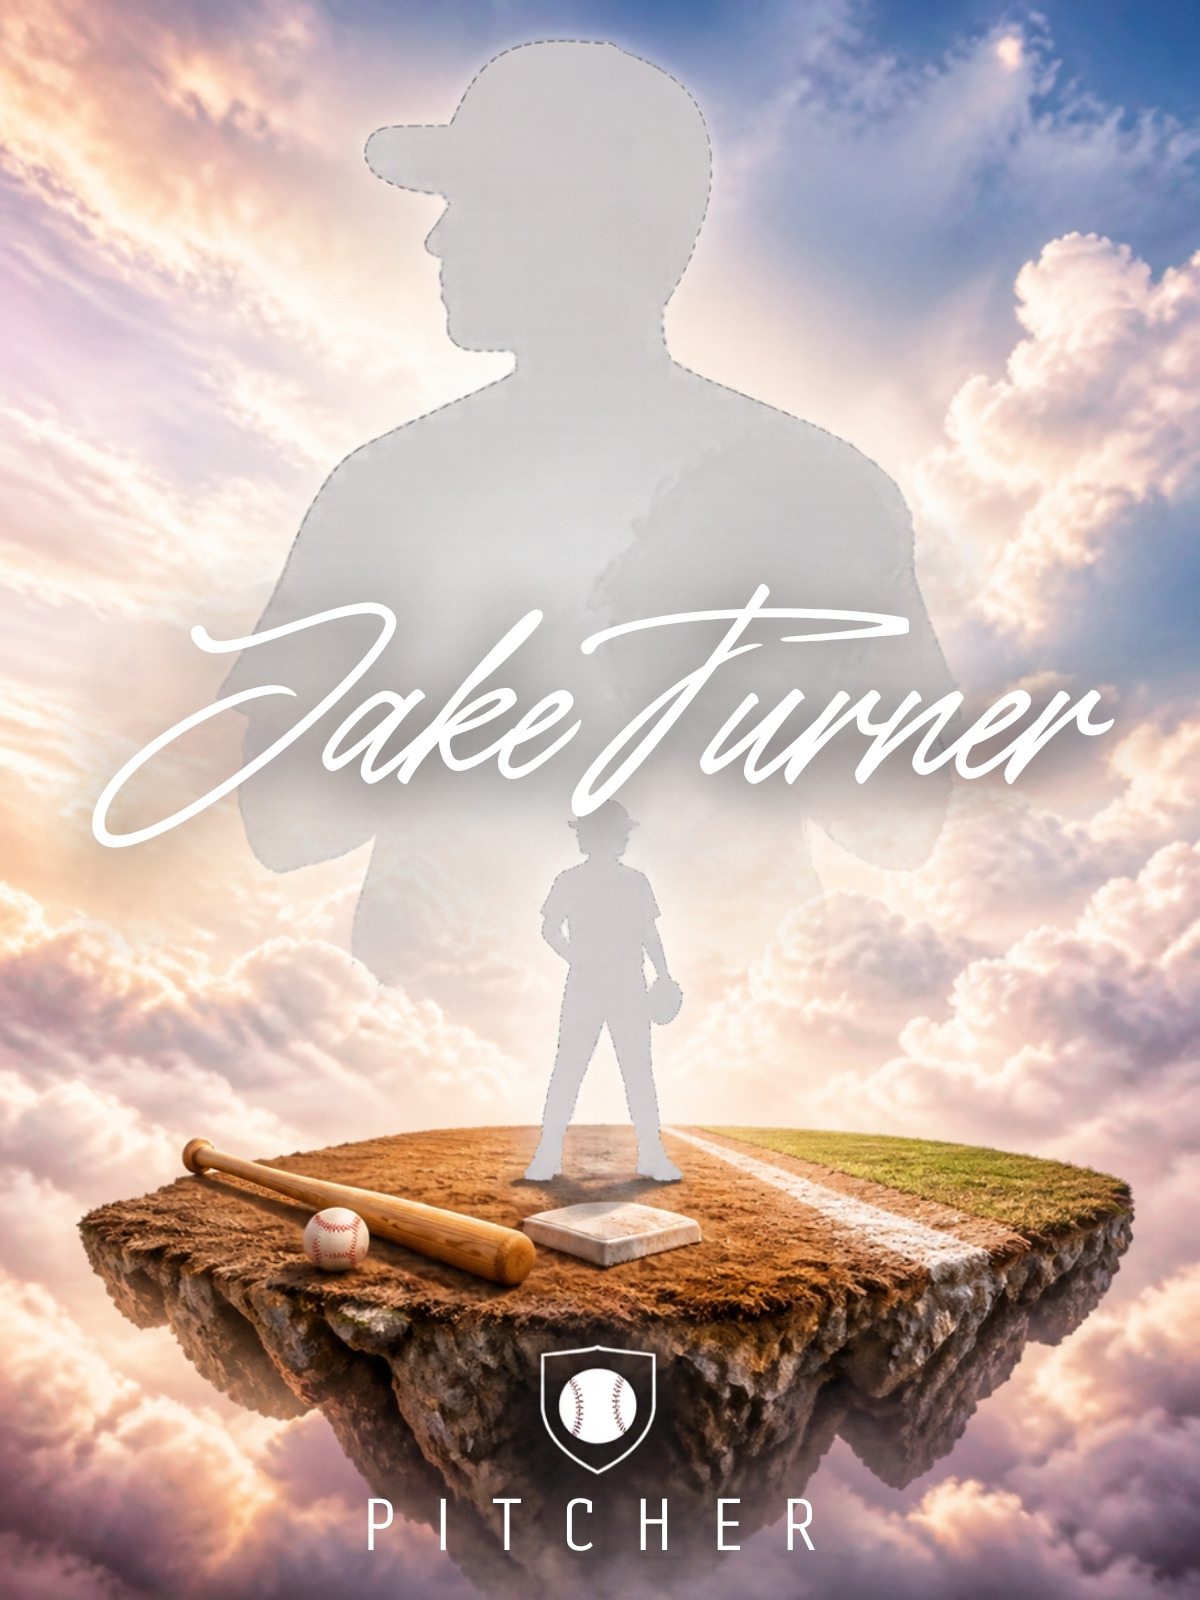
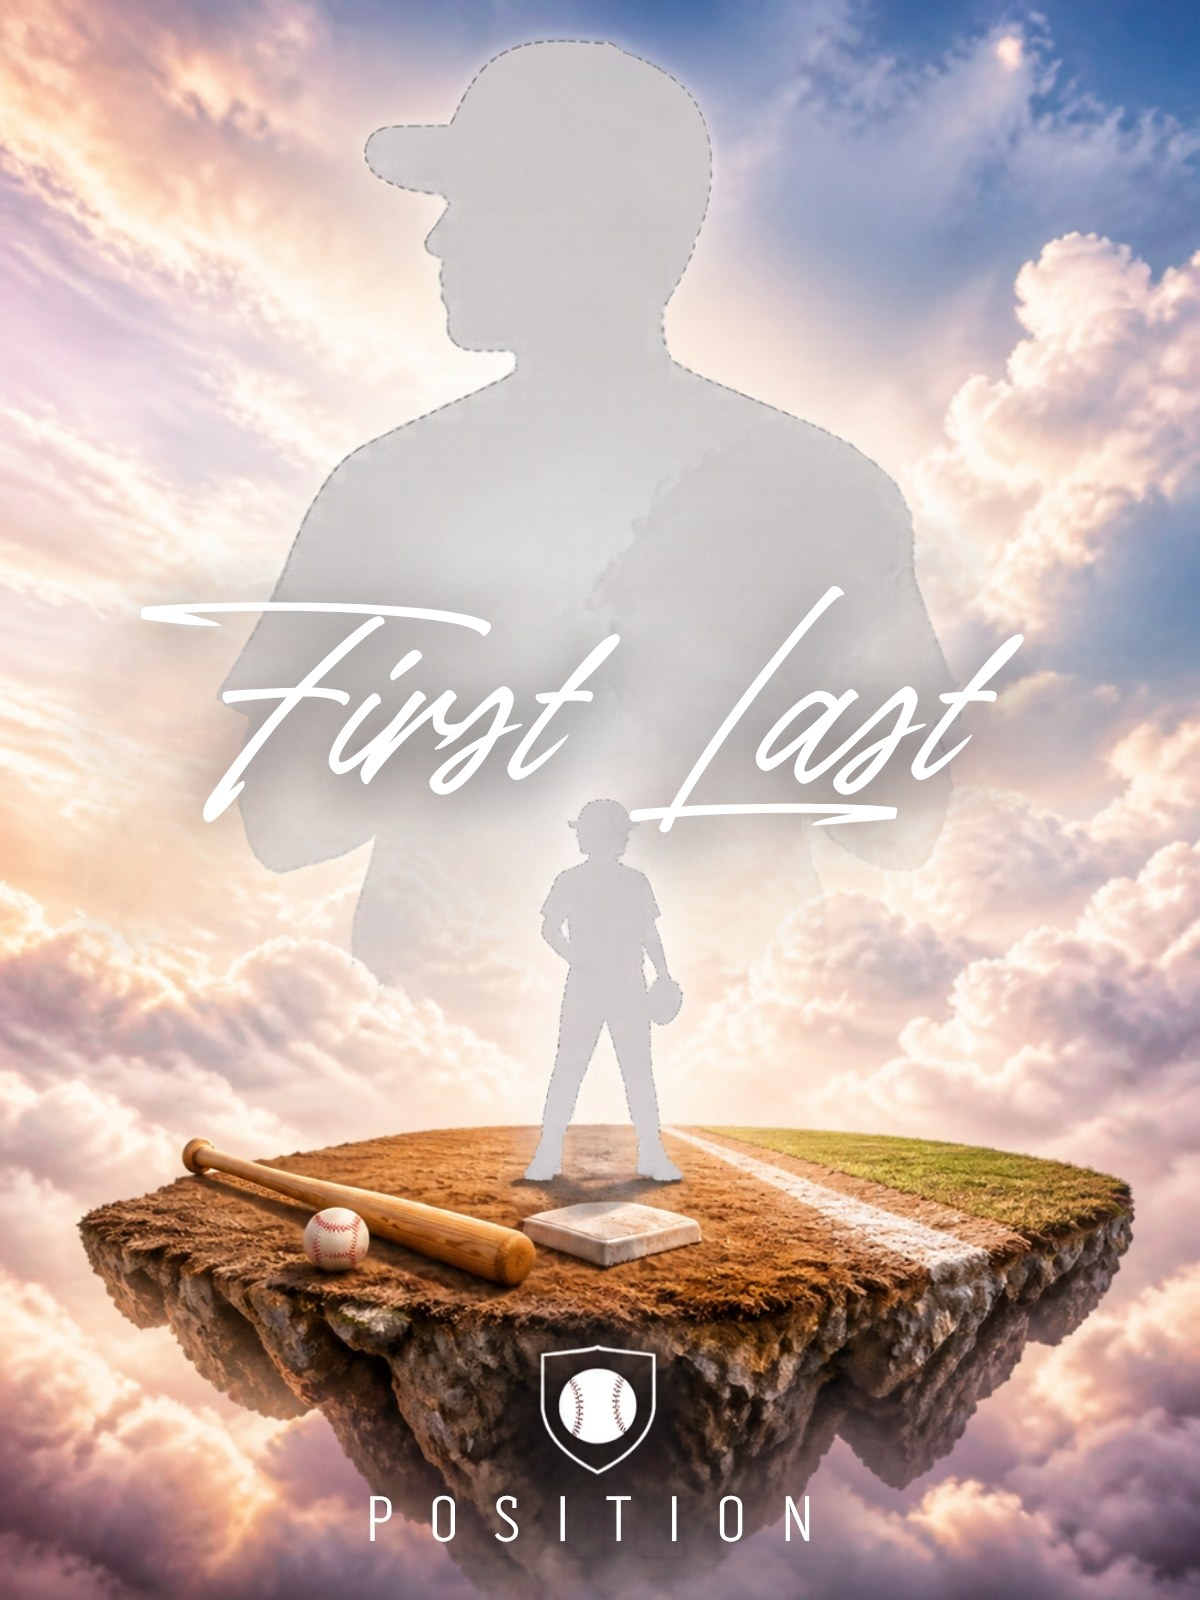
Fold posters into each sport's lineup; placeholder names on all poster images
- Posters now appear after the cards in one list per sport (#38-42 soccer, #13-17 baseball/football) with a gold Poster tag
- Cards/Posters toggle replaced by Cards and Posters filter chips
- Re-exported all 15 poster images with FIRST LAST / POSITION placeholders (no sample name)
- Photo instructions in the form follow the picked design type

Claude-Session: https://claude.ai/code/session_01HXmChJBK92rBPeddW31ADs

diff --git a/index.html b/index.html
@@ -114,6 +114,9 @@
   .card:hover .foil { opacity: 1; }
   .num { position: absolute; top: 0; left: 0; background: var(--maroon-hot); color: #fff; font-family: var(--display); font-weight: 900; font-size: 26px; line-height: 1; padding: 7px 10px 5px; }
   .tagl { position: absolute; bottom: 8px; left: 8px; font: 600 11px var(--body); letter-spacing: .08em; text-transform: uppercase; background: rgba(0,0,0,.65); color: #fff; padding: 3px 7px; }
+  .kindl { position: absolute; top: 50px; right: 8px; font: 800 11px var(--cond); letter-spacing: .14em; text-transform: uppercase; background: var(--gold); color: var(--night); padding: 4px 8px; border-radius: 3px; }
+  .chip.poster { border-color: var(--gold); color: var(--gold); }
+  .chip.poster.on { background: var(--gold); color: var(--night); }
   .fav { position: absolute; top: 8px; right: 8px; width: 34px; height: 34px; border-radius: 50%; border: 0; background: rgba(0,0,0,.55); color: #fff; font-size: 17px; cursor: pointer; display: grid; place-items: center; transition: transform .2s var(--ease), background .2s; }
   .fav:hover { transform: scale(1.12); }
   .fav.on { background: var(--maroon-hot); }
@@ -217,11 +220,11 @@
     <div>
       <p class="kicker">Bulldogs Cards · 2026 season</p>
       <h1>Pick your<br>player's<br>card</h1>
-      <p class="lede">76 designs: trading cards and full-size posters for soccer, baseball and football. Pick a design, type in your player's details, and Samson builds it and gets it back to you. Free for Bulldogs families.</p>
+      <p class="lede">76 designs for soccer, baseball and football: classic trading cards plus full-size cut-out posters, all in one lineup. Pick a design, type in your player's details, and Samson builds it and gets it back to you. Free for Bulldogs families.</p>
       <div class="sportpick" id="sportpick" role="tablist" aria-label="Sport">
-        <button role="tab" data-s="soccer" class="on"><span class="ico">⚽</span><span class="nm">Soccer</span><span class="ct">37 cards · 5 posters</span></button>
-        <button role="tab" data-s="baseball"><span class="ico">⚾</span><span class="nm">Baseball</span><span class="ct">12 cards · 5 posters</span></button>
-        <button role="tab" data-s="football"><span class="ico">🏈</span><span class="nm">Football</span><span class="ct">12 cards · 5 posters</span></button>
+        <button role="tab" data-s="soccer" class="on"><span class="ico">⚽</span><span class="nm">Soccer</span><span class="ct">42 designs</span></button>
+        <button role="tab" data-s="baseball"><span class="ico">⚾</span><span class="nm">Baseball</span><span class="ct">17 designs</span></button>
+        <button role="tab" data-s="football"><span class="ico">🏈</span><span class="nm">Football</span><span class="ct">17 designs</span></button>
       </div>
     </div>
     <div class="stage" id="stage">
@@ -234,7 +237,7 @@
 </header>
 
 <section class="wrap steps" id="steps">
-  <div class="step" id="s1"><b>1</b><div><strong>Pick a design</strong><span>Choose your sport and card or poster. Tap any one to see it big, then hit Pick this one.</span></div></div>
+  <div class="step" id="s1"><b>1</b><div><strong>Pick a design</strong><span>Choose your sport, then browse cards and posters together. Tap any one to see it big, then hit Pick this one.</span></div></div>
   <div class="step" id="s2"><b>2</b><div><strong>Fill in the details</strong><span>Name, number, position, and whether you want the NBT logo. Watch the preview update.</span></div></div>
   <div class="step" id="s3"><b>3</b><div><strong>Send it</strong><span>Hit Send. Then text or email Samson 1 or 2 action photos of your player.</span></div></div>
 </section>
@@ -245,10 +248,6 @@
       <button data-s="soccer" class="on">⚽ Soccer</button>
       <button data-s="baseball">⚾ Baseball</button>
       <button data-s="football">🏈 Football</button>
-    </div>
-    <div class="seg" id="segKind">
-      <button data-k="cards" class="on">Cards</button>
-      <button data-k="posters">Posters</button>
     </div>
     <div class="chips" id="chips"></div>
     <div class="right">
@@ -273,7 +272,7 @@
     </aside>
     <div class="panel">
       <h2>Player details</h2>
-      <p>Chosen design: <span class="chosen" id="chosen">none yet, pick one above</span></p>
+      <p>Chosen design: <span class="chosen" id="chosen">none yet, pick one above</span> <span class="note" id="photoNote"></span></p>
       <form id="req">
         <div class="fields">
           <label>First name <input id="first" required autocomplete="off"></label>
@@ -425,24 +424,28 @@
       ]
     }
   };
-  var INTRO = {
-    cards: "Classic trading cards. Two photo frames, big name down the side, number and position.",
-    posters: "Full-size posters. Your player is cut out of the photo and dropped into the scene, like a pro's wall poster. Needs one clear head-and-shoulders photo and one action shot."
-  };
+  // One lineup per sport: cards first, then posters numbered on from the last card.
+  Object.keys(SPORTS).forEach(function (s) {
+    var SS = SPORTS[s];
+    SS.cards.forEach(function (t) { t.k = "cards"; t.img = SS.p + t.n; });
+    SS.posters.forEach(function (t, i) { t.k = "posters"; t.img = SS.pp + t.n; t.n = SS.cards.length + i + 1; });
+    SS.all = SS.cards.concat(SS.posters);
+  });
+  var INTRO = "Trading cards and full-size posters, side by side. Cards use 1 or 2 action photos. Posters (gold tag) cut your player out of the photo and drop them into the scene, like a pro's wall poster.";
   var reduce = window.matchMedia("(prefers-reduced-motion: reduce)").matches;
   var $ = function (id) { return document.getElementById(id); };
 
   // ---------- state ----------
-  var sport = "soccer", kind = "cards", filter = "all", query = "";
+  var sport = "soccer", filter = "all", query = "";
   var picked = null, cur = 0, LIST = [];
   var favs = [];
   try { favs = JSON.parse(localStorage.getItem("bulldogs-favs") || "[]"); } catch (e) { favs = []; }
 
   function S() { return SPORTS[sport]; }
-  function prefix(k, s) { return (k || kind) === "posters" ? SPORTS[s || sport].pp : SPORTS[s || sport].p; }
-  function imgSrc(t, thumb, k, s) { return "img/" + (thumb ? "thumb/" : "") + prefix(k, s) + t.n + ".jpg"; }
-  function title(t, k, s) { var SS = SPORTS[s || sport]; return SS.label + " " + ((k || kind) === "posters" ? "poster" : "card") + " #" + t.n + " " + t.name; }
-  function key(t, k, s) { return (s || sport) + "/" + (k || kind) + "/" + t.n; }
+  function imgSrc(t, thumb) { return "img/" + (thumb ? "thumb/" : "") + t.img + ".jpg"; }
+  function kindWord(t) { return t.k === "posters" ? "poster" : "card"; }
+  function title(t, s) { return SPORTS[s || sport].label + " " + kindWord(t) + " #" + t.n + " " + t.name; }
+  function key(t, s) { return (s || sport) + "/" + t.img; }
 
   // ---------- hero sky ----------
   (function sky() {
@@ -469,12 +472,12 @@
   function buildHolo() {
     holoList = [];
     ["soccer", "baseball", "football"].forEach(function (s) {
-      SPORTS[s].cards.slice(-4).forEach(function (t) { holoList.push({ s: s, k: "cards", t: t }); });
-      SPORTS[s].posters.slice(0, 2).forEach(function (t) { holoList.push({ s: s, k: "posters", t: t }); });
+      SPORTS[s].cards.slice(-4).forEach(function (t) { holoList.push({ s: s, t: t }); });
+      SPORTS[s].posters.slice(0, 2).forEach(function (t) { holoList.push({ s: s, t: t }); });
     });
     holoList.sort(function () { return Math.random() - .5; });
     holo.querySelectorAll("img").forEach(function (i) { i.remove(); });
-    holoList.forEach(function (h) { var im = new Image(); im.src = imgSrc(h.t, true, h.k, h.s); im.alt = ""; holo.insertBefore(im, holo.firstChild); });
+    holoList.forEach(function (h) { var im = new Image(); im.src = imgSrc(h.t, true); im.alt = ""; holo.insertBefore(im, holo.firstChild); });
     showHolo(0);
     clearInterval(holoTimer);
     if (!reduce) holoTimer = setInterval(function () { showHolo(holoI + 1); }, 2800);
@@ -484,7 +487,7 @@
     var imgs = holo.querySelectorAll("img");
     imgs.forEach(function (im, j) { im.classList.toggle("on", j === holoList.length - 1 - holoI); });
     var h = holoList[holoI];
-    $("holotag").innerHTML = SPORTS[h.s].ball + " <b>" + h.t.name + "</b> · " + SPORTS[h.s].label + " " + (h.k === "posters" ? "poster" : "card");
+    $("holotag").innerHTML = SPORTS[h.s].ball + " <b>" + h.t.name + "</b> · " + SPORTS[h.s].label + " " + kindWord(h.t);
   }
   function tilt(el, e, max) {
     var r = el.getBoundingClientRect();
@@ -500,25 +503,24 @@
     stage.addEventListener("pointerleave", function () { untilt(holo); });
   }
   holo.addEventListener("click", function () {
-    var h = holoList[holoI]; sport = h.s; kind = h.k; render();
-    var t = h.t; var i = LIST.indexOf(t); if (i >= 0) open(i);
+    var h = holoList[holoI]; sport = h.s; render();
+    var i = LIST.indexOf(h.t); if (i >= 0) open(i);
   });
   buildHolo();
 
   // ---------- render grid ----------
   function render() {
-    var SS = S(); LIST = SS[kind]; filter = "all";
+    var SS = S(); LIST = SS.all; filter = "all";
     document.querySelectorAll("#sportpick button, #segSport button").forEach(function (b) { b.classList.toggle("on", b.dataset.s === sport); });
-    document.querySelectorAll("#segKind button").forEach(function (b) { b.classList.toggle("on", b.dataset.k === kind); });
-    $("introH").textContent = SS.label + " " + kind;
-    $("introP").textContent = INTRO[kind];
+    $("introH").textContent = SS.label + " designs";
+    $("introP").textContent = INTRO;
     var grid = $("grid"); grid.innerHTML = "";
     LIST.forEach(function (t, i) {
       var c = document.createElement("article");
-      c.className = "card"; c.id = "c-" + prefix() + t.n; c.dataset.f = t.f; c.dataset.q = (t.name + " " + t.vibe + " " + LABEL[t.f]).toLowerCase();
+      c.className = "card"; c.id = "c-" + t.img; c.dataset.f = t.f; c.dataset.k = t.k; c.dataset.q = (t.name + " " + t.vibe + " " + LABEL[t.f] + " " + kindWord(t)).toLowerCase();
       var isFav = favs.indexOf(key(t)) >= 0;
       c.innerHTML =
-        '<button class="thumb" type="button" aria-label="Enlarge ' + t.name + '"><span class="num">' + t.n + '</span><img src="' + imgSrc(t, true) + '" alt="' + title(t) + '" loading="lazy"><span class="foil"></span><span class="tagl">' + LABEL[t.f] + '</span></button>' +
+        '<button class="thumb" type="button" aria-label="Enlarge ' + t.name + '"><span class="num">' + t.n + '</span><img src="' + imgSrc(t, true) + '" alt="' + title(t) + '" loading="lazy"><span class="foil"></span><span class="tagl">' + LABEL[t.f] + '</span>' + (t.k === "posters" ? '<span class="kindl">Poster</span>' : '') + '</button>' +
         '<button class="fav' + (isFav ? " on" : "") + '" type="button" aria-label="Shortlist ' + t.name + '" aria-pressed="' + isFav + '">' + (isFav ? "♥" : "♡") + '</button>' +
         '<div class="meta"><div class="name">' + t.name + '</div><p class="vibe">' + t.vibe + '</p><button class="pick" type="button">Pick this one</button></div>';
       c.querySelector(".thumb").addEventListener("click", function () { open(i); });
@@ -531,7 +533,7 @@
       grid.appendChild(c);
     });
     var have = {}; LIST.forEach(function (t) { have[t.f] = 1; });
-    var chips = '<button class="chip on" data-f="all">All</button>';
+    var chips = '<button class="chip on" data-f="all">All</button><button class="chip" data-f="cards">Cards</button><button class="chip poster" data-f="posters">Posters</button>';
     ORDER.forEach(function (k) { if (have[k]) chips += '<button class="chip" data-f="' + k + '">' + LABEL[k] + '</button>'; });
     $("chips").innerHTML = chips;
     document.querySelectorAll(".chip").forEach(function (b) {
@@ -543,7 +545,6 @@
     var pos = $("pos"); pos.innerHTML = "";
     SS.positions.forEach(function (p) { var o = document.createElement("option"); o.textContent = p; pos.appendChild(o); });
     if (!teamTouched) $("team").value = SS.team;
-    if (picked && (picked.s !== sport || picked.k !== kind)) { /* keep pick across tabs */ }
     markPicked();
     applyFilter();
     renderTray();
@@ -552,14 +553,14 @@
   function applyFilter() {
     var n = 0, q = query.trim().toLowerCase();
     document.querySelectorAll(".card").forEach(function (c) {
-      var show = (filter === "all" || c.dataset.f === filter) && (!q || c.dataset.q.indexOf(q) >= 0);
+      var show = (filter === "all" || c.dataset.f === filter || c.dataset.k === filter) && (!q || c.dataset.q.indexOf(q) >= 0);
       c.hidden = !show; if (show) n++;
     });
     $("count").textContent = n + " of " + LIST.length;
     $("empty").hidden = n > 0;
   }
   function markPicked() {
-    document.querySelectorAll(".card").forEach(function (c) { c.classList.toggle("picked", !!picked && picked.s === sport && picked.k === kind && c.id === "c-" + prefix() + picked.t.n); });
+    document.querySelectorAll(".card").forEach(function (c) { c.classList.toggle("picked", !!picked && picked.s === sport && c.id === "c-" + picked.t.img); });
   }
   $("q").addEventListener("input", function () { query = this.value; applyFilter(); });
   $("shuffle").addEventListener("click", function () {
@@ -572,20 +573,15 @@
   document.querySelectorAll("#sportpick button, #segSport button").forEach(function (b) {
     b.addEventListener("click", function () {
       sport = b.dataset.s; render();
-      if (history.replaceState) history.replaceState(null, "", "#" + sport + (kind === "posters" ? "-posters" : ""));
+      if (history.replaceState) history.replaceState(null, "", "#" + sport);
       $("designs").scrollIntoView({ behavior: reduce ? "auto" : "smooth", block: "start" });
     });
   });
-  document.querySelectorAll("#segKind button").forEach(function (b) {
-    b.addEventListener("click", function () {
-      kind = b.dataset.k; render();
-      if (history.replaceState) history.replaceState(null, "", "#" + sport + (kind === "posters" ? "-posters" : ""));
-    });
-  });
+  var startFilter = "all";
   (function fromHash() {
     var h = location.hash.slice(1).split("-");
     if (SPORTS[h[0]]) sport = h[0];
-    if (h[1] === "posters") kind = "posters";
+    if (h[1] === "posters") startFilter = "posters";
   })();
 
   // ---------- shortlist ----------
@@ -597,17 +593,17 @@
   }
   function findByKey(k) {
     var p = k.split("/"); var SS = SPORTS[p[0]]; if (!SS) return null;
-    var t = SS[p[1]].filter(function (x) { return x.n == p[2]; })[0];
-    return t ? { s: p[0], k: p[1], t: t } : null;
+    var t = SS.all.filter(function (x) { return x.img === p[1]; })[0];
+    return t ? { s: p[0], t: t } : null;
   }
   function renderTray() {
     var tray = $("tray"), items = $("trayItems"); items.innerHTML = "";
     var list = favs.map(findByKey).filter(Boolean);
     list.forEach(function (h) {
-      var b = document.createElement("button"); b.type = "button"; b.title = title(h.t, h.k, h.s);
-      b.className = picked && picked.s === h.s && picked.k === h.k && picked.t.n === h.t.n ? "picked" : "";
-      b.innerHTML = '<img src="' + imgSrc(h.t, true, h.k, h.s) + '" alt="">';
-      b.addEventListener("click", function () { sport = h.s; kind = h.k; render(); pick(h.t); });
+      var b = document.createElement("button"); b.type = "button"; b.title = title(h.t, h.s);
+      b.className = picked && picked.s === h.s && picked.t === h.t ? "picked" : "";
+      b.innerHTML = '<img src="' + imgSrc(h.t, true) + '" alt="">';
+      b.addEventListener("click", function () { sport = h.s; render(); pick(h.t); });
       items.appendChild(b);
     });
     tray.classList.toggle("show", list.length > 0);
@@ -618,9 +614,10 @@
   var teamTouched = false;
   $("team").addEventListener("input", function () { teamTouched = true; });
   function pick(t) {
-    picked = { s: sport, k: kind, t: t };
+    picked = { s: sport, t: t };
     markPicked(); renderTray();
     $("chosen").textContent = title(t);
+    $("photoNote").textContent = t.k === "posters" ? "Posters need one clear head-and-shoulders photo and one action shot." : "Cards need 1 or 2 action photos.";
     $("s1").classList.add("done");
     close(); preview();
     $("form").scrollIntoView({ behavior: reduce ? "auto" : "smooth", block: "start" });
@@ -633,7 +630,7 @@
     var first = v("first"), last = v("last"), num = v("num"), pos = $("pos").value;
     var logo = document.querySelector('input[name="logo"]:checked').value === "Yes";
     var nm = (first || last) ? (first + " " + last).trim() : "Player name";
-    pv.innerHTML = '<img src="' + imgSrc(picked.t, false, picked.k, picked.s) + '" alt="">' +
+    pv.innerHTML = '<img src="' + imgSrc(picked.t, false) + '" alt="">' +
       '<div class="plate"><span class="logo' + (logo ? "" : " off") + '">NBT</span><span class="pn">' + esc(nm) + '</span><span class="pj">' + (num ? "#" + esc(num) : "") + '</span><span class="pp">' + esc(pos) + ' · ' + esc(v("team") || SPORTS[picked.s].label) + ' ' + esc(v("year")) + '</span></div>';
     if (first || last) $("s2").classList.add("done");
   }
@@ -687,10 +684,10 @@
     e.preventDefault();
     if (!picked) { status.textContent = "Pick a design first (tap Pick this one on a card)."; status.className = "note"; $("designs").scrollIntoView({ behavior: "smooth" }); return; }
     var logo = document.querySelector('input[name="logo"]:checked').value;
-    var L = SPORTS[picked.s].label, K = picked.k === "posters" ? "poster" : "card";
+    var L = SPORTS[picked.s].label, K = kindWord(picked.t);
     var lines = [
       L + " " + K + " request",
-      "Design: " + title(picked.t, picked.k, picked.s),
+      "Design: " + title(picked.t, picked.s),
       "Player: " + v("first") + " " + v("last"),
       "Number: " + (v("num") || "none"),
       "Position: " + $("pos").value,
@@ -710,13 +707,13 @@
       headers: { "Content-Type": "application/json", "Accept": "application/json" },
       body: JSON.stringify({
         access_key: KEY,
-        subject: L + " " + K + ": " + v("first") + " " + v("last") + " (" + title(picked.t, picked.k, picked.s) + ", logo " + logo + ")",
+        subject: L + " " + K + ": " + v("first") + " " + v("last") + " (" + title(picked.t, picked.s) + ", logo " + logo + ")",
         from_name: "Bulldogs Card Picker",
         message: body
       })
     }).then(function (r) { return r.json(); }).then(function (j) {
       if (!j.success) throw new Error(j.message || "failed");
-      $("done").innerHTML = "<span class=\"ok\">Sent.</span> Samson has your request. One more thing: text or email him " + (picked.k === "posters" ? "a clear head-and-shoulders photo and an action shot" : "1 or 2 action photos") + " of your player (phone photos are fine, the bigger the better).";
+      $("done").innerHTML = "<span class=\"ok\">Sent.</span> Samson has your request. One more thing: text or email him " + (picked.t.k === "posters" ? "a clear head-and-shoulders photo and an action shot" : "1 or 2 action photos") + " of your player (phone photos are fine, the bigger the better).";
       $("out").hidden = false; $("copy").hidden = false;
       btn.textContent = "Sent"; $("s3").classList.add("done"); confetti();
     }).catch(function () {
@@ -733,6 +730,7 @@
   });
 
   render();
+  if (startFilter !== "all") { var sc = document.querySelector('.chip[data-f="' + startFilter + '"]'); if (sc) sc.click(); }
 </script>
 </body>
 </html>

diff --git a/README.md b/README.md
@@ -1,9 +1,9 @@
 # Bulldogs Card Picker
 
-Sports card and poster picker for Bulldogs families: 61 trading cards (37 soccer, 12 baseball, 12 football) and 15 cut-out composite posters (5 per sport). Pick a sport, cards or posters, pick a design, fill in the player's details, and send the request.
+Sports card and poster picker for Bulldogs families: 61 trading cards (37 soccer, 12 baseball, 12 football) and 15 cut-out composite posters (5 per sport). Each sport shows one lineup, cards first and posters after (soccer #38-42, baseball and football #13-17, gold Poster tag). Pick a sport, pick a design, fill in the player details, and send the request.
 
 Features: holographic hero card, 3D tilt on hover, style filters and search, "Surprise me", shortlist (saved in the browser), lightbox with keyboard and swipe, live preview with the player's name, confetti on send.
 
-Deep links: `#soccer`, `#baseball`, `#football`, and `#soccer-posters` etc.
+Deep links: `#soccer`, `#baseball`, `#football`; add `-posters` (e.g. `#soccer-posters`) to open with the Posters filter on.
 
-Images: `img/t*.jpg` soccer cards, `img/b*.jpg` baseball, `img/f*.jpg` football, `img/ps*.jpg` / `pb*.jpg` / `pf*.jpg` posters (1200px). Grid thumbnails live in `img/thumb/`.
+Images: `img/t*.jpg` soccer cards, `img/b*.jpg` baseball, `img/f*.jpg` football, `img/ps*.jpg` / `pb*.jpg` / `pf*.jpg` posters (1200px). Grid thumbnails live in `img/thumb/`. `img/placeholder/` holds the blank silhouettes used in the Canva poster templates.
